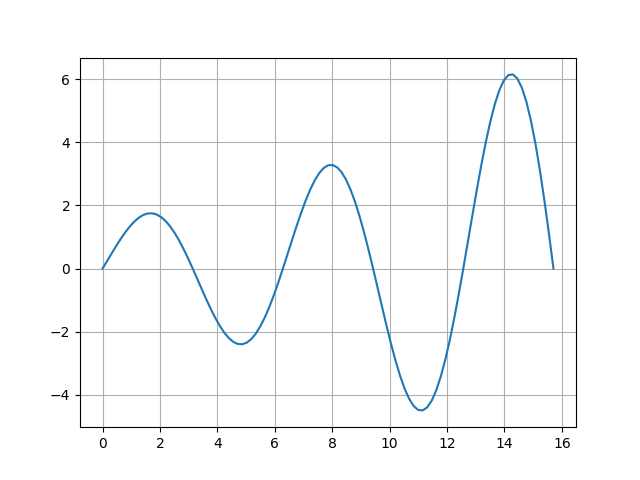
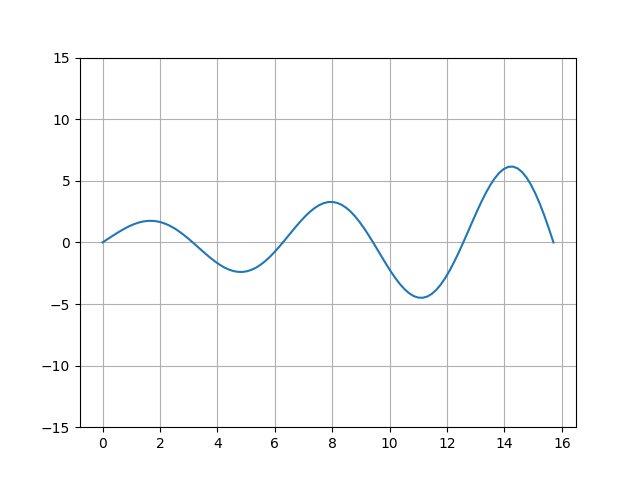
new scripts

diff --git a/episode 1/main.py b/episode 1/main.py
@@ -8,6 +8,14 @@ for j in range(5):
         for i in range(int(s[0])):
             x.append(float(s[i+1].split()[0]))
             y.append(float(s[i+1].split()[1]))
+        print(max(x)-min(x),max(y)-min(y))
+        k=(max(x)/max(y))
+        print(k)
+        if 7>k:
+            plt.figure(figsize=(10, 10/k))
+        if 7<k:
+            plt.figure(figsize=(30, 30 / k))
         plt.plot(x,y,marker='o',linestyle='')
+
         plt.savefig(g+".png")
         plt.show()

diff --git a/episode 2/main.py b/episode 2/main.py
@@ -14,6 +14,7 @@ with open ("frames.dat.txt",'r') as f:
         qw=str(i+1)
         print(qw)
         plt.plot(x,y)
+        plt.ylim(-15,15)
         plt.grid()
         plt.savefig(qw+".png")
         plt.show()
